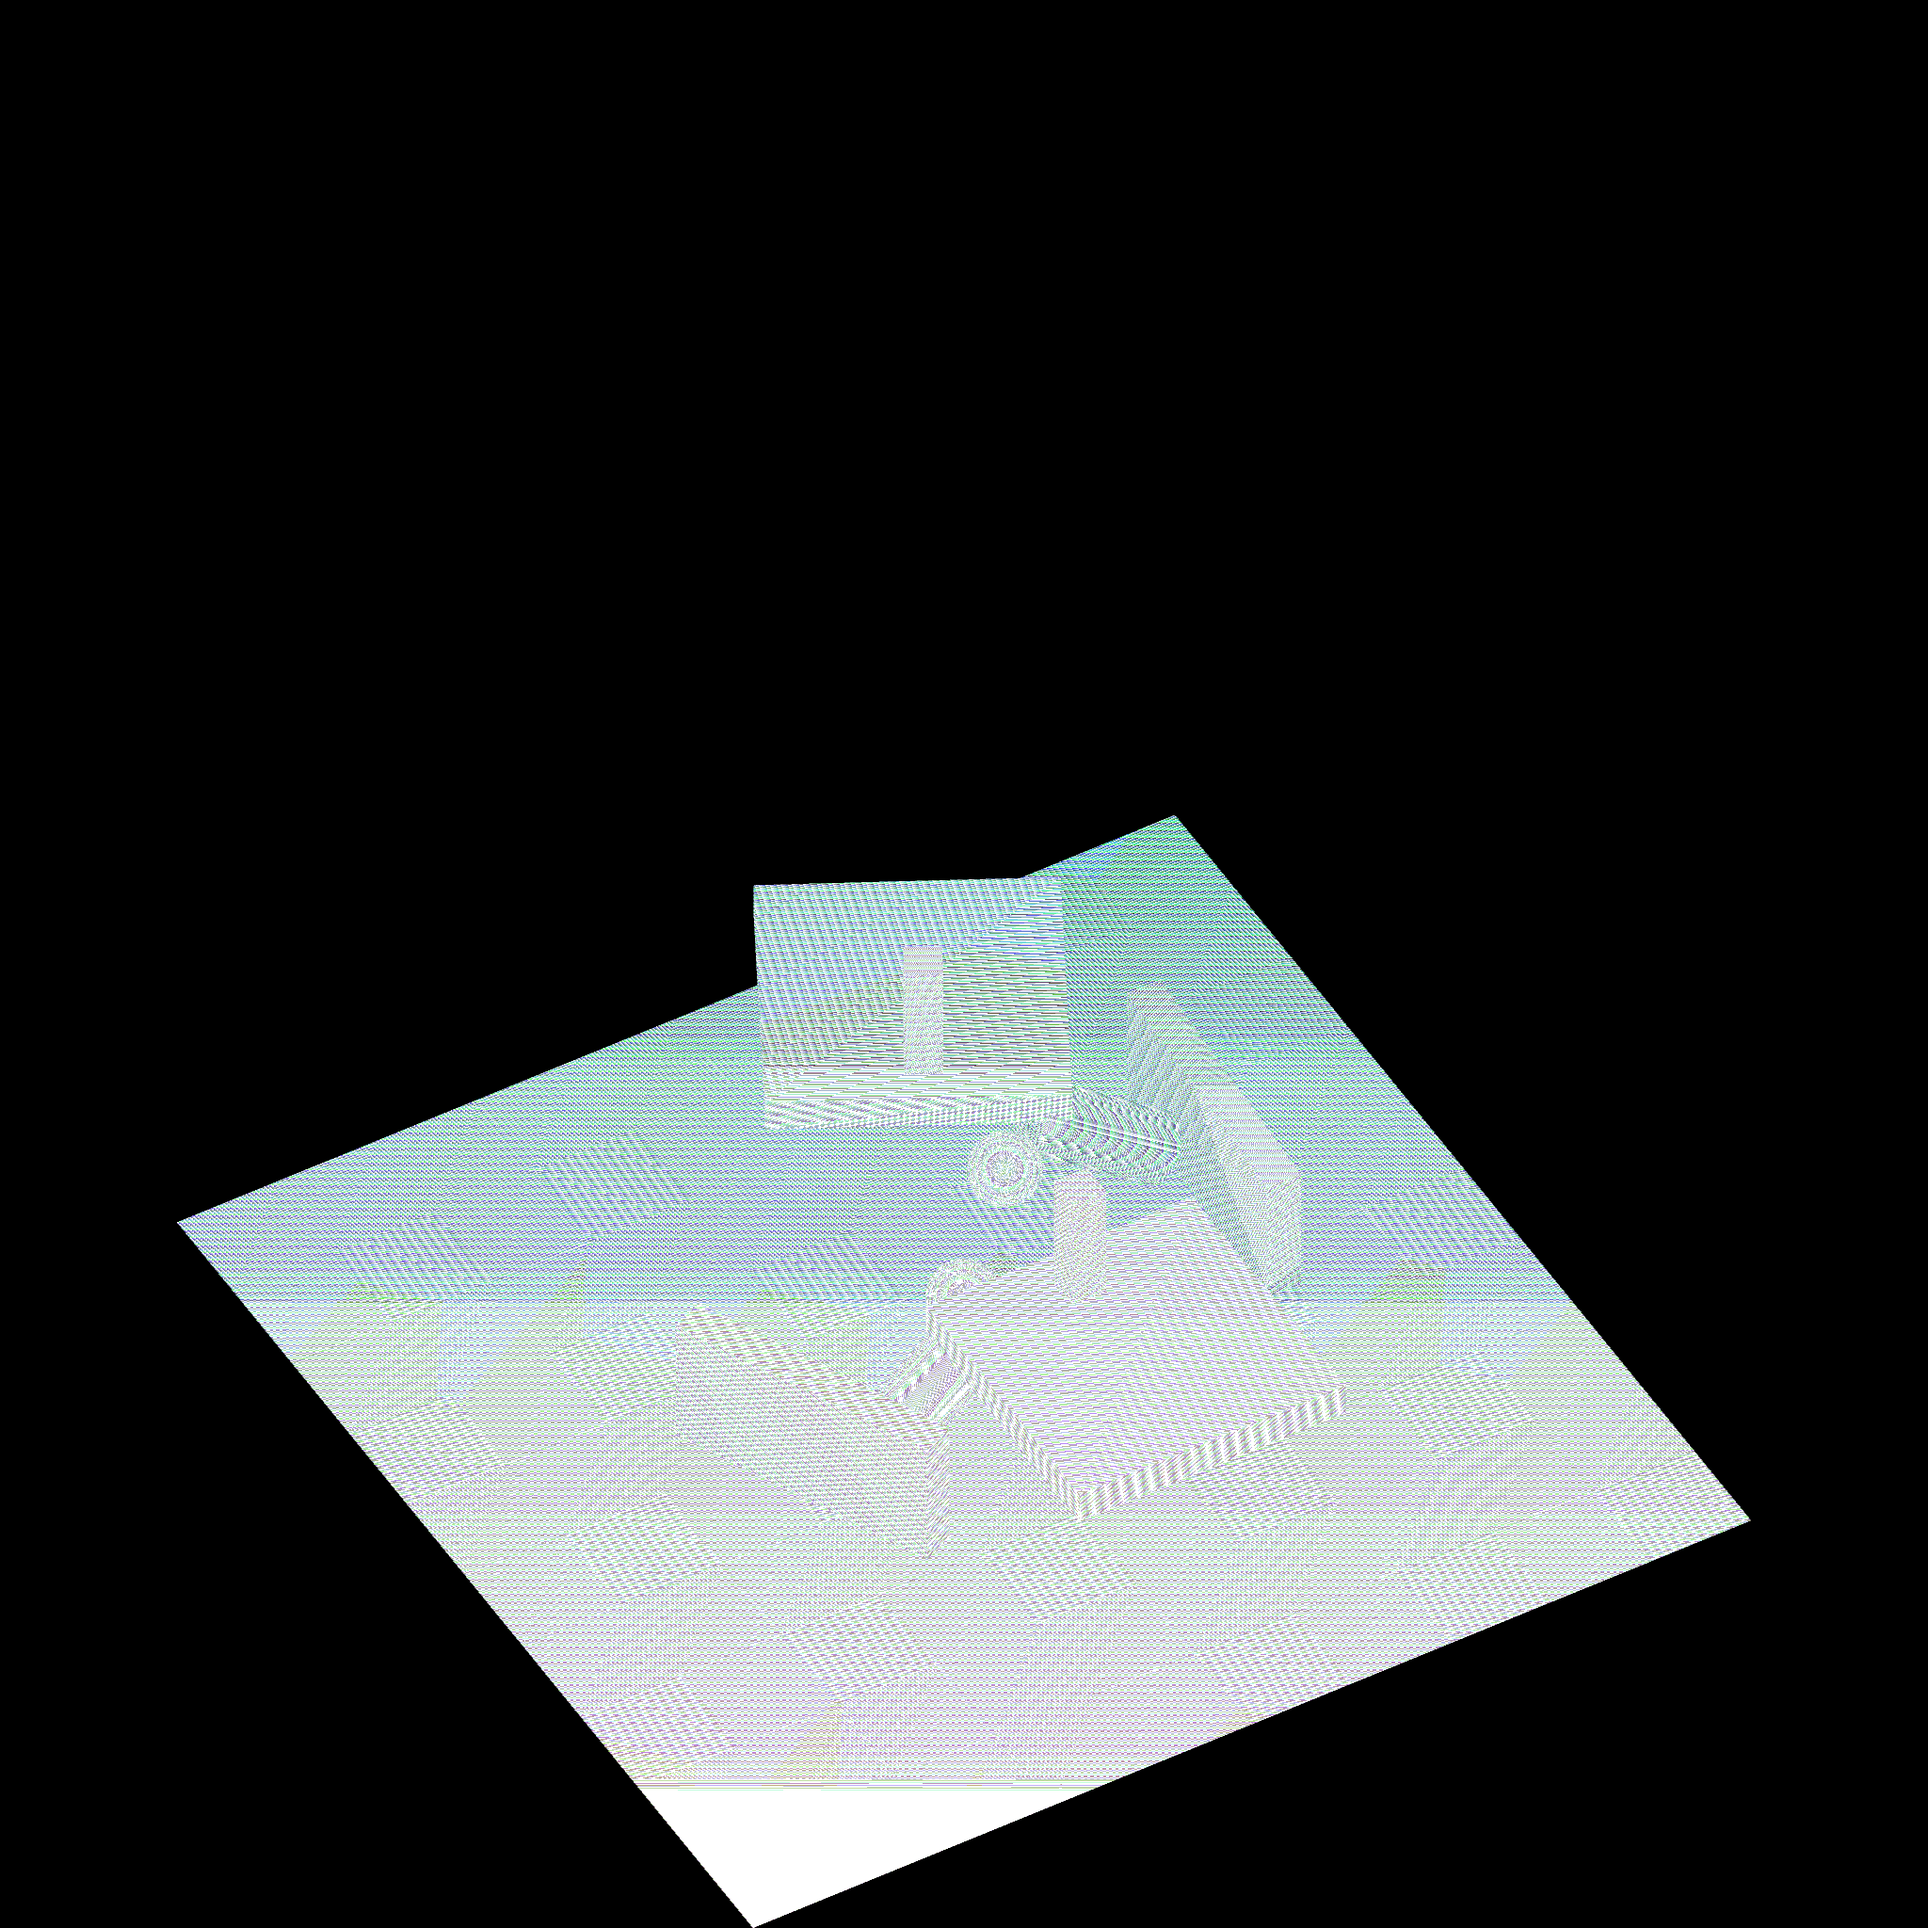
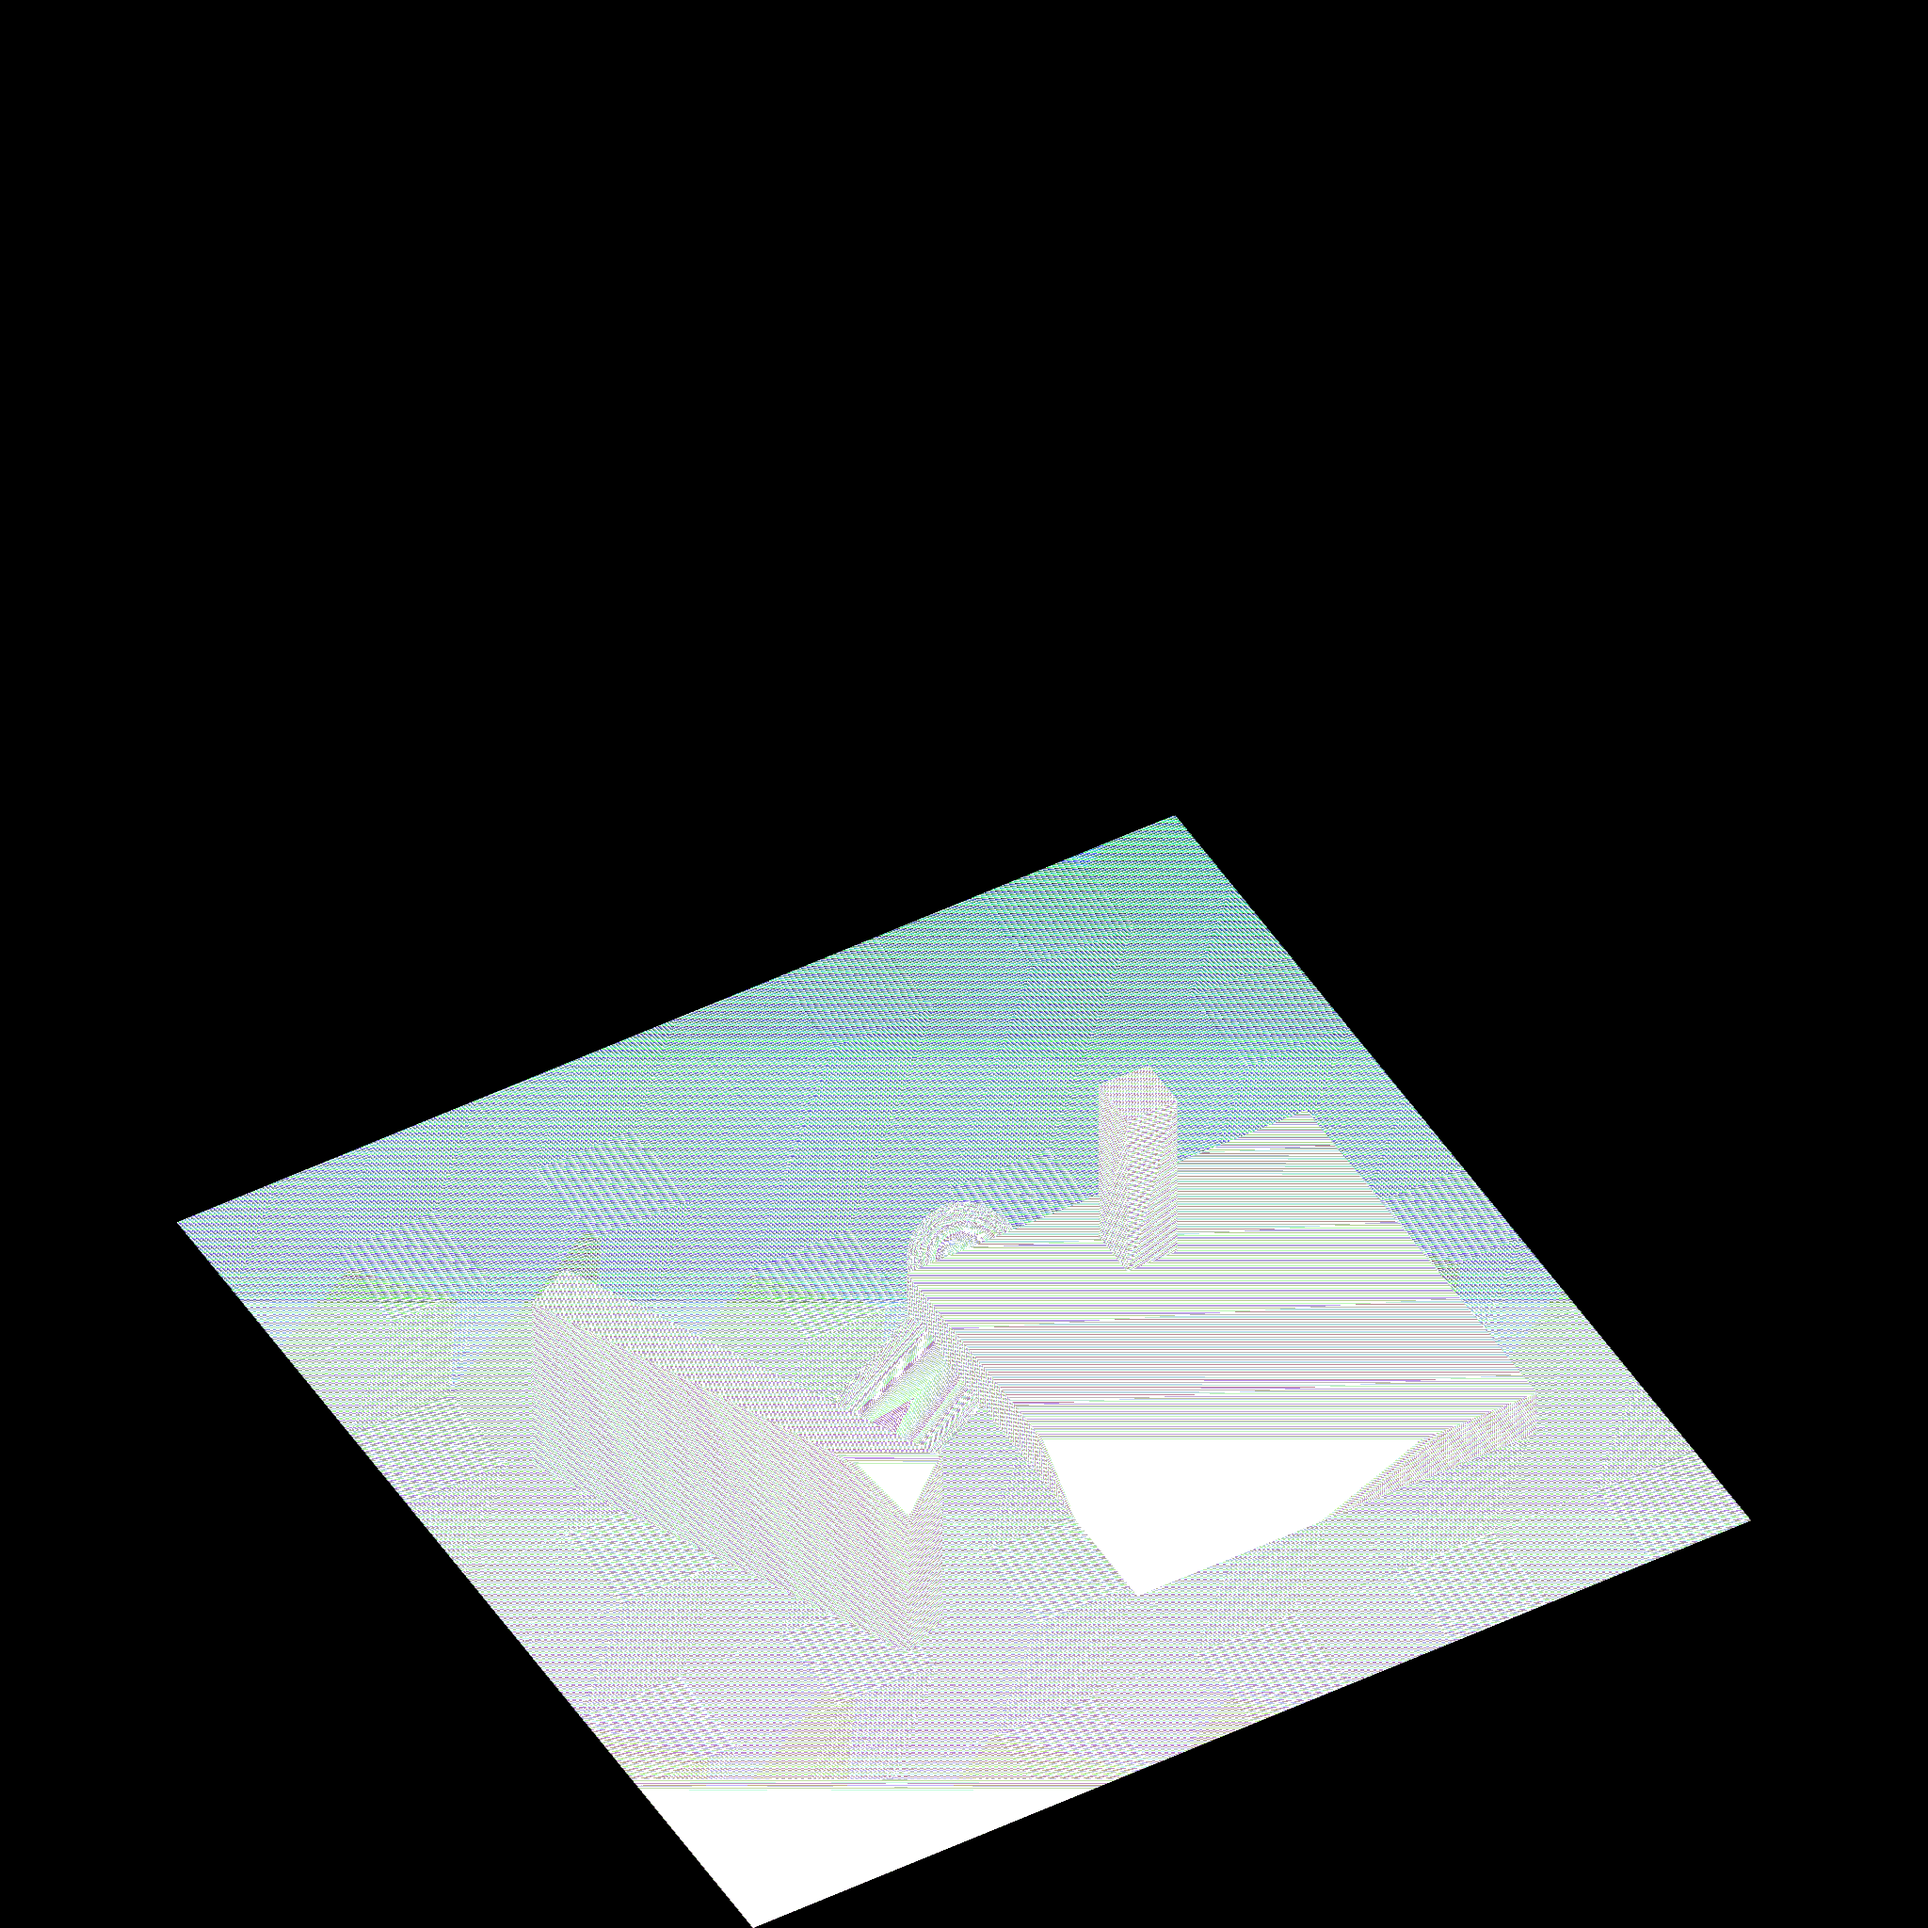
0424

Changed region(s): [[0.0938, 0.4062, 0.9062, 0.9375]]

diff --git a/ShadowCSharp/OctreeManager.cs b/ShadowCSharp/OctreeManager.cs
@@ -70,7 +70,7 @@ namespace Assets.ShadowCSharp
             _shadowDatas = new List<DebugShadowData>();
         }
 
-        private float GetSizeByDepth(int depth)
+        public float GetSizeByDepth(int depth)
         {
             return _aabbManager.GetAABBLenth() / (long) (1 << depth);
         }
@@ -207,14 +207,18 @@ namespace Assets.ShadowCSharp
 
         public Texture2D SerializeOctree()
         {
-            Texture2D tex = new Texture2D(1024, 1024);
+            Texture2D tex = new Texture2D(128, 128);
             int lastIp = -1;
             SerializationDfs(_root, tex,ref lastIp,0);
             Debug.LogFormat("Total ip = {0}",lastIp);
+            for (int i = lastIp + 1; i < tex.width * tex.height; ++i)
+            {
+                SetPixel(i,tex,new Color32(0,0,0,0));
+            }
             return tex;
         }
 
-        private const int black = Int32.MaxValue;
+        private const int black = 1;
         private const int white = 0;
 
         private int SerializationDfs(Octree root, Texture2D tex,ref int lastIp,int preAllocatedId)
@@ -236,15 +240,17 @@ namespace Assets.ShadowCSharp
             if (BitCompression(root, out TryCompressValue))
             {
                 SetPixel(root.Ip,tex,EncodeIntRGBA(TryCompressValue,1));
+                Debug.LogFormat("{0}: [{1},type = {2}]", root.Ip, TryCompressValue, 1);
                 return root.Ip;
             }
 
             int tmpIp = lastIp + 1;
             lastIp += 8;
 
-            SetPixel(root.Ip, tex, EncodeIntRGBA(SerializationDfs(root.SubTree[0], tex, ref lastIp, tmpIp), 
-                (root.SubTree == null || root.SubTree.Count <= 0) ? 0 : 2));
-
+            int val = SerializationDfs(root.SubTree[0], tex, ref lastIp, tmpIp);
+            int type = (root.SubTree == null || root.SubTree.Count <= 0) ? 0 : 2;
+            SetPixel(root.Ip, tex, EncodeIntRGBA(val, type));
+            Debug.LogFormat("{0}: [{1},type = {2}]",root.Ip,val,type);
             for (int i = 1; i < 8; ++i)
             {
                SerializationDfs(root.SubTree[i],tex,ref lastIp,tmpIp+i);

diff --git a/Utils/Controller.cs b/Utils/Controller.cs
@@ -47,12 +47,14 @@ class Controller : MonoBehaviour
         Execute();
         GC.Collect();
         Texture2D tex = octreeManager.SerializeOctree();
+        CommonValues.SaveTexture2DToLacalPng(tex,"OctreeInShader");
+
         Shader.SetGlobalTexture("_Octree",tex);
         Shader.SetGlobalInt("_TreeDepth",depth);
         Shader.SetGlobalVector("_AABBMin",aabbManager.BasePoint);
         Shader.SetGlobalInt("_TexWidth",tex.width);
         Shader.SetGlobalInt("_TexHeight",tex.height);
-        CommonValues.SaveTexture2DToLacalPng(tex, "Octree-preCompress");
+        Shader.SetGlobalFloat("_AABBCell", octreeManager.GetSizeByDepth(depth));
     }
 
     private void Execute()
